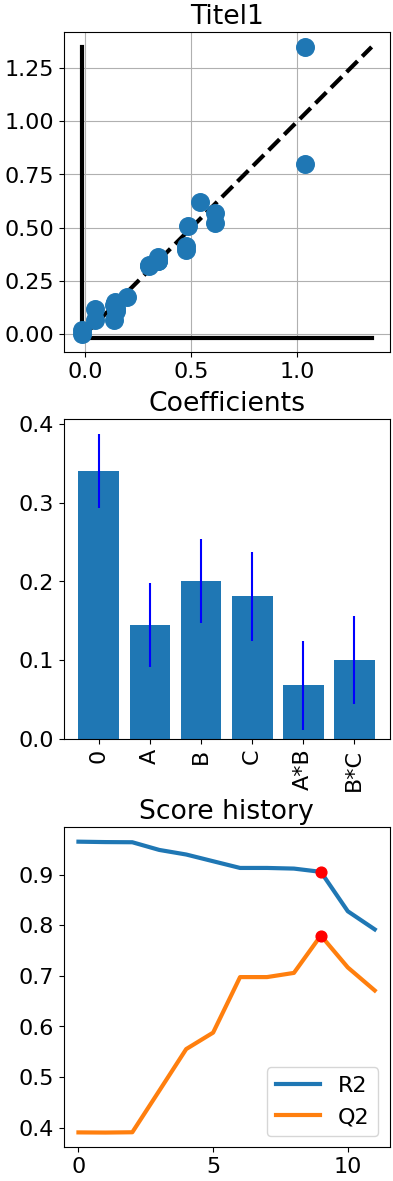
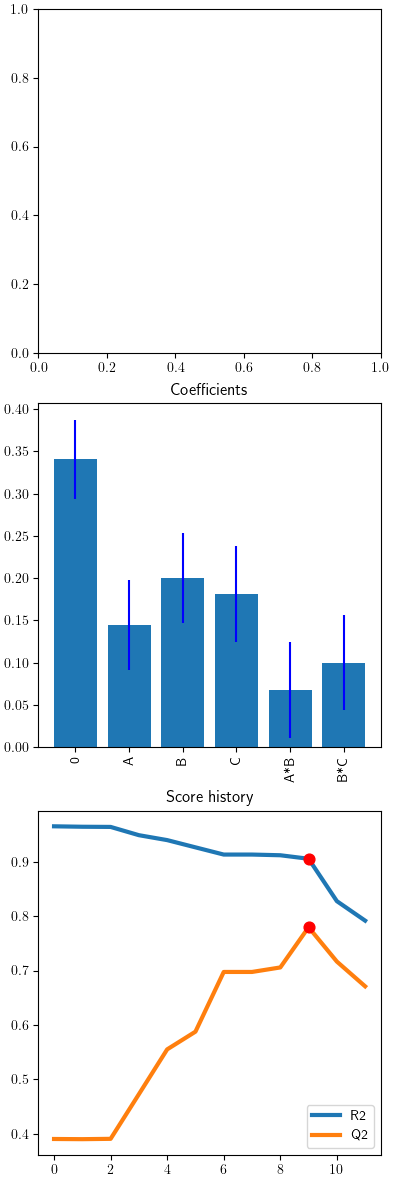
Plot updates

diff --git a/DoE/Server/Common/Statistics.py b/DoE/Server/Common/Statistics.py
@@ -25,6 +25,7 @@ def plotObservedVsPredicted(prediction, observation, titleSuffix=None, X=None, f
     maxVal = red(max)
 
     Common.plot(
+        lambda plt: plt.rcParams.update({'text.usetex': True}),
         lambda plt: plt.scatter(prediction, observation),
         lambda plt: plt.plot([minVal, maxVal], [minVal, minVal], 'k', linewidth=1),
         lambda plt: plt.plot([minVal, minVal], [minVal, maxVal], 'k', linewidth=1),
@@ -32,7 +33,7 @@ def plotObservedVsPredicted(prediction, observation, titleSuffix=None, X=None, f
         lambda plt: plt.grid(), 
         #lambda plt: True if suppressR2 else plt.text(.05*(maxVal - minVal), -.15*(maxVal - minVal), "R2: {}".format(round(R2(observation, prediction), 2))),
         #lambda plt: X is not None and plt.text(.4*(maxVal - minVal), -.15*(maxVal - minVal), "Q2: {}".format(round(Q2(X, observation), 2))),
-        xLabel="Predicted", yLabel="Observed", title=titleStr, 
+        xLabel=r"Predicted STY ($kg\;L^{-1}\;h^{-1}$)", yLabel=r"Observed STY ($kg\;L^{-1}\;h^{-1}$)", title=titleStr, 
         saveFigure=savePath is not None,
         savePath=savePath,
         figure=figure
@@ -92,7 +93,7 @@ def plotCoefficients(coefficientValues, context:ContextDoE=None, confidenceInter
         lambda plt: _plotBars(plt),
         lambda plt: plt.errorbar(range(l), coefficientValues, confidenceInterval, fmt=' ', color='b'),
         lambda plt: True if labels is None else plt.xticks(range(l), labels, rotation=90),
-        xLabel="Coefficient", yLabel="Value", title=titleStr,
+        xLabel="Coefficient", yLabel="Magnitude", title=titleStr,
         figure=figure
     )
 
@@ -113,7 +114,7 @@ def plotScoreHistory(scoreHistoryDict : Dict, selectedIndex=None, figure=False):
 
     def plotAllScores(p):
         for _, (score, scoreHistory) in enumerate(scoreHistoryDict.items()):
-            p.plot(scoreHistory, label=score)
+            p.plot(scoreHistory, label="${}$".format(score.replace("2", "^2")))
             
             if selectedIndex is not None:
                 p.scatter(selectedIndex, scoreHistory[selectedIndex], color='r'),
@@ -123,7 +124,7 @@ def plotScoreHistory(scoreHistoryDict : Dict, selectedIndex=None, figure=False):
         showLegend= len(scoreHistoryDict) > 1,
         xLabel="Iteration", yLabel="Score", 
         #title=("" if len(scoreHistoryDict) > 1 else scoreHistoryDict[0].keys()[0]) + "Score",
-        title="R2 and Q2",
+        title=r"$R^2$ and $Q^2$",
         figure=figure
     )
 

diff --git a/DoE/Server/Common/Paper.py b/DoE/Server/Common/Paper.py
@@ -16,6 +16,8 @@ def cm2Inch(cm):
 
 def generatePlot2(prediction, observation, titleStr, useLabels=True, filename=None, drawOrigin=True, drawTicks=True, figure=None):
 
+    return
+     
     savePath=Path("./Paper/Plots/Plot2_ObsVsPred/")
 
     red = lambda func: func(func(prediction), func(observation))
